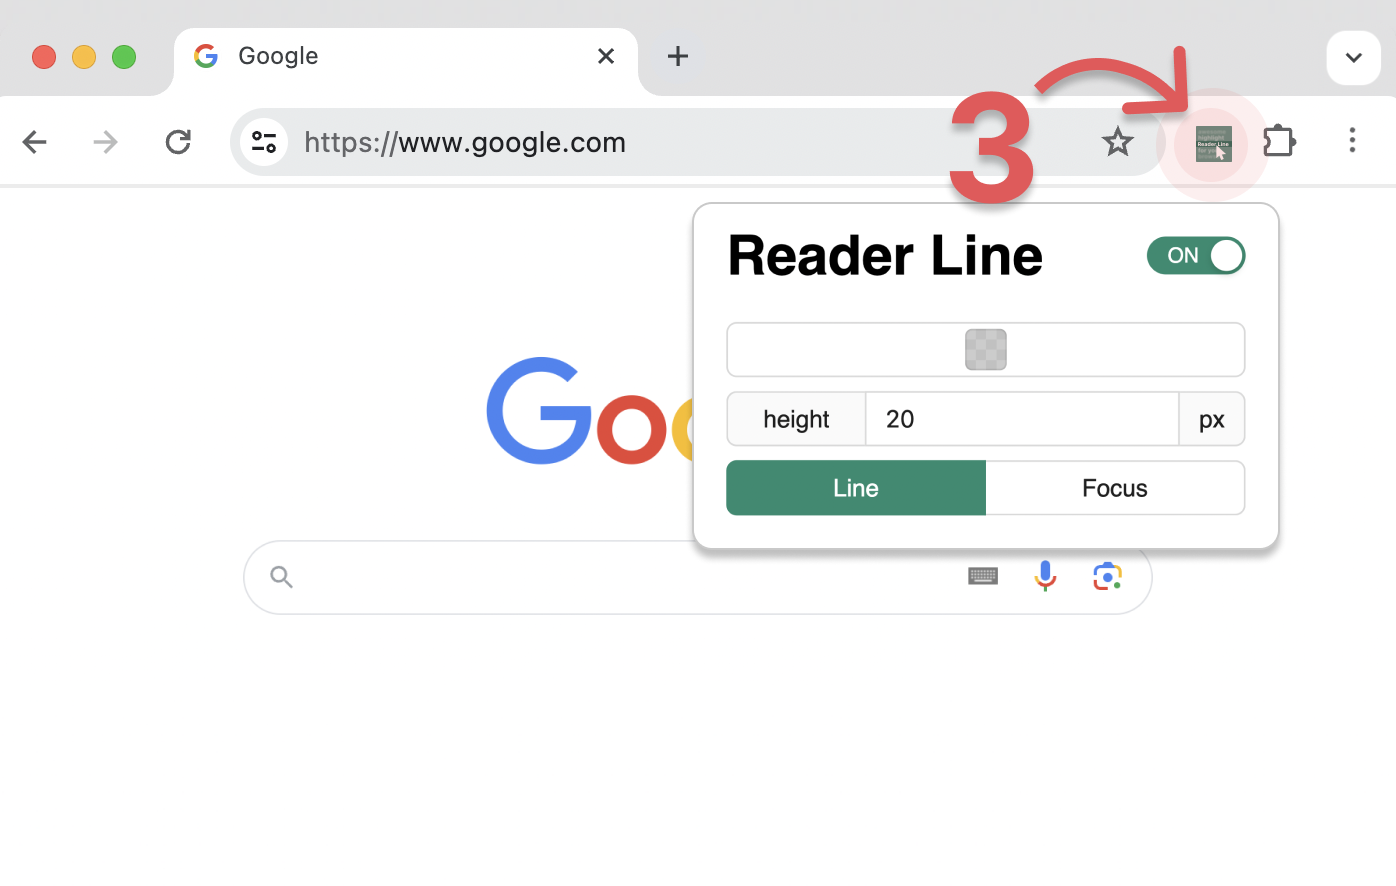
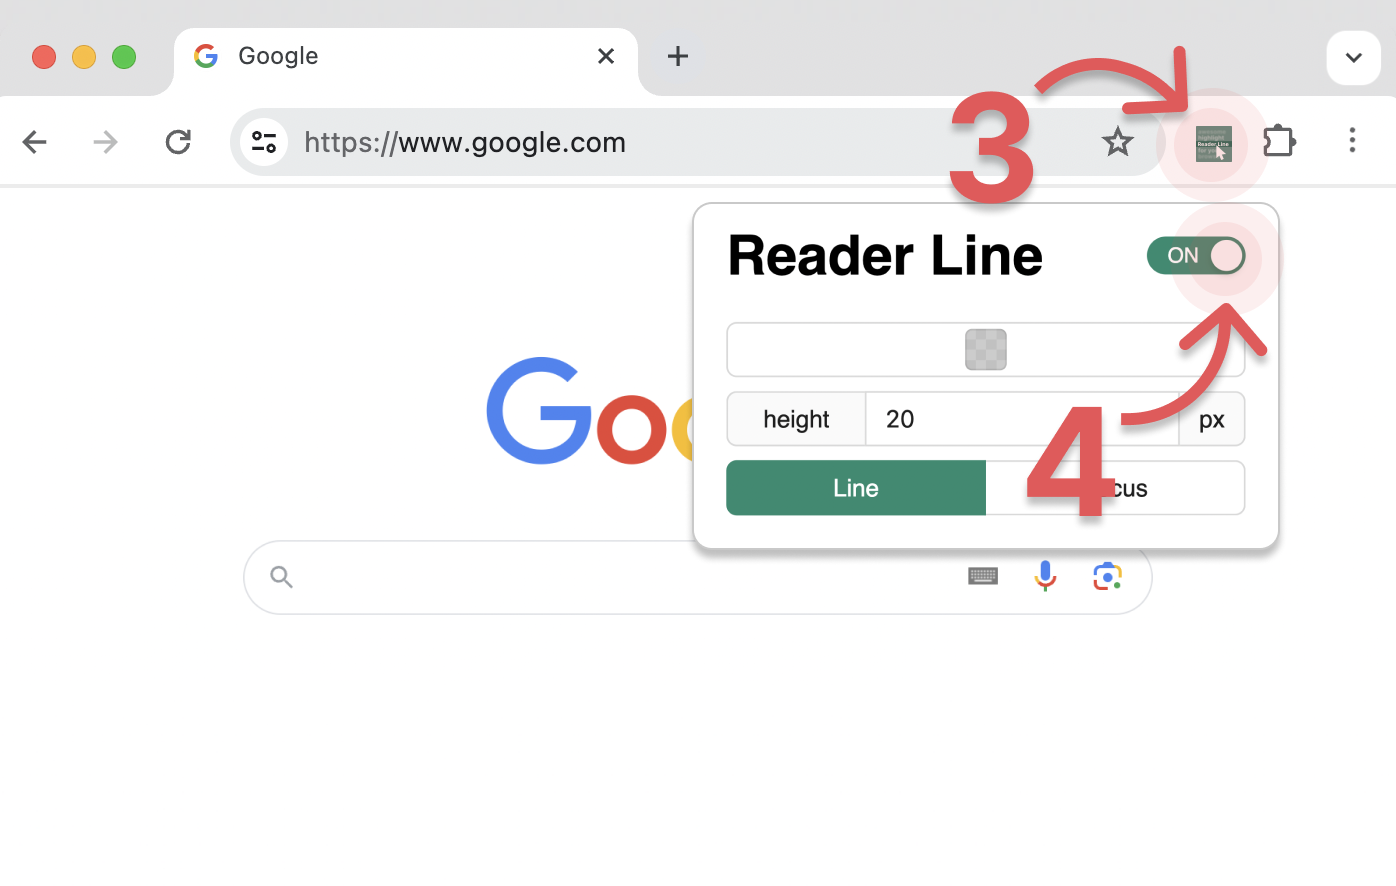
fix: review

Changed region(s): [[0.7393, 0.2438, 0.9241, 0.6095]]

diff --git a/docs/welcome/index.html b/docs/welcome/index.html
@@ -12,7 +12,7 @@
       <h2>1. Pin Reader Line extension for easy access</h2>
       <img src="instruction1.png" />
 
-      <h2>2. Click on extension icon to open the customization menu</h2>
+      <h2>2. Click on extension icon to open the Reader Line and turn it on</h2>
       <img src="instruction2.png" />
     </div>
   </body>

diff --git a/docs/rate-us/index.html b/docs/rate-us/index.html
@@ -8,7 +8,7 @@
 
 <body>
   <div class="container">
-    <h1>Please, rate us 🙏</h1>
+    <h1>Please rate us 🙏</h1>
 
     <iframe
       src="https://docs.google.com/forms/d/e/1FAIpQLSfx_NgTDQBrRu0LHkPDwRCRx2v8-WqLOQCkHBOXbqw1EizWJw/viewform?embedded=true"
